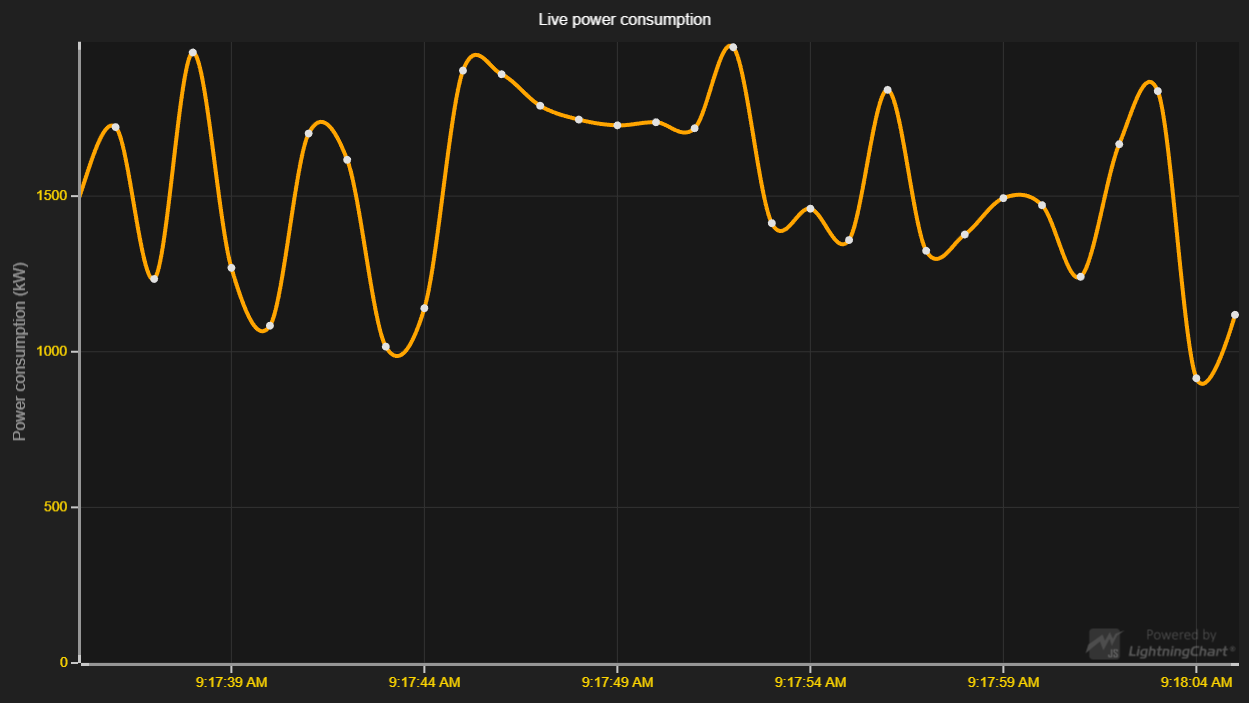
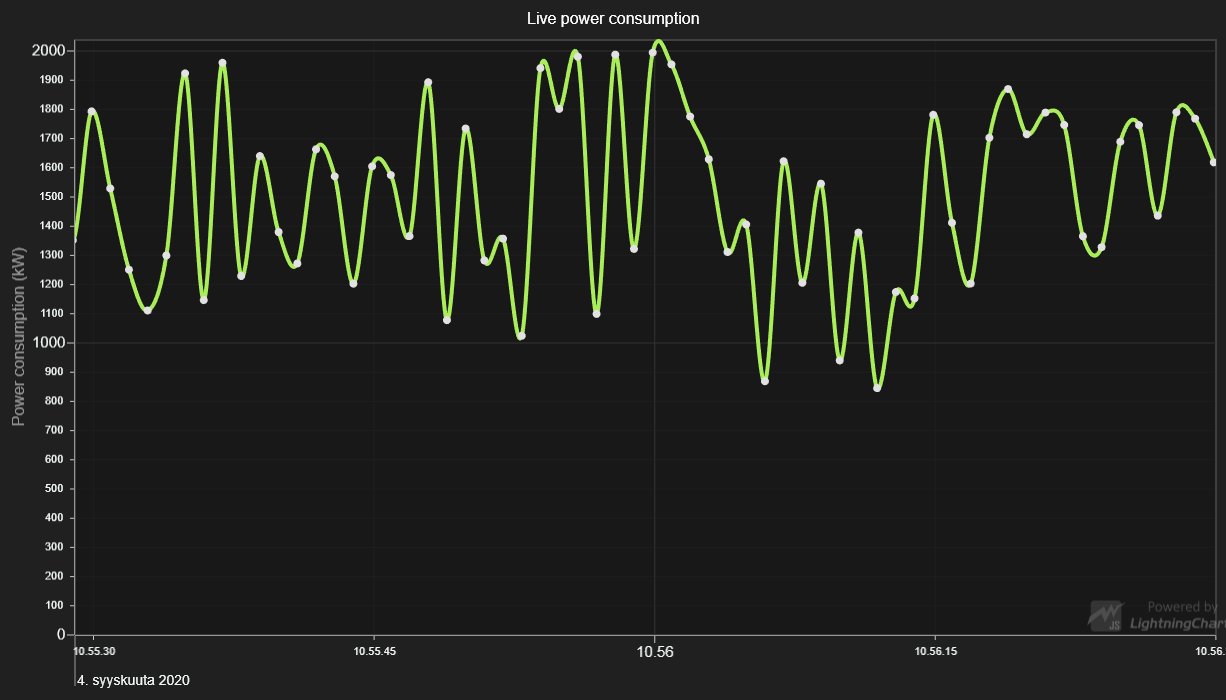
LCJS 2.0.0

Changed region(s): [[0.0, 0.0, 1.0, 0.99], [0.8059, 0.12, 0.9918, 0.54]]

diff --git a/src/index.js b/src/index.js
@@ -11,23 +11,29 @@ const {
     AxisScrollStrategies,
     PointShape,
     SolidFill,
-    ColorHEX
+    ColorHEX,
+    Themes
 } = lcjs
 
 const {
     createProgressiveRandomGenerator
 } = require('@arction/xydata')
-
+// Decide on an origin for DateTime axis.
 const dateOrigin = new Date()
 const dataFrequency = 1000
 const chart = lightningChart().ChartXY({
-    defaultAxisXTickStrategy: AxisTickStrategies.DateTime(dateOrigin)
+    // theme: Themes.dark
 })
-    .setTitle('Live power consumption')
 
-chart.getDefaultAxisX()
-    // Progressive DateTime view of 30 seconds.
-    .setInterval(-30 * 1000, 0)
+chart
+    .setTitle('Live power consumption')
+    // Modify the default X Axis to use DateTime TickStrategy, and set the origin for the DateTime Axis.
+    .getDefaultAxisX().setTickStrategy(
+        AxisTickStrategies.DateTime,
+        (tickStrategy) => tickStrategy.setDateOrigin(dateOrigin)
+    )
+    // Progressive DateTime view of 61 seconds.
+    .setInterval(-61 * 1000, 0)
     .setScrollStrategy(AxisScrollStrategies.progressive)
 
 chart.getDefaultAxisY()
@@ -39,7 +45,7 @@ const series = chart.addSplineSeries({ pointShape: PointShape.Circle })
     .setName('Power consumption')
     .setStrokeStyle((strokeStyle) => strokeStyle
         .setThickness(4)
-        .setFillStyle(new SolidFill({ color: ColorHEX('#FFA500') }))
+        .setFillStyle(new SolidFill({ color: ColorHEX('#A9ED59') }))
     )
     .setPointSize(8)
     .setCursorInterpolationEnabled(false)

diff --git a/README.md b/README.md
@@ -71,14 +71,14 @@ splineSeries
 
 ## API Links
 
-* Solid LineStyle: [SolidLine]
-* Solid FillStyle: [SolidFill]
-* Transparent FillStyle: [transparentFill]
-* RGBA color factory: [ColorRGBA]
-* XY cartesian chart: [ChartXY]
-* Spline series: [SplineSeries]
-* Scroll strategies: [AxisScrollStrategies]
-* Progressive random data generator: [ProgressiveRandomGenerator]
+* [Solid LineStyle]
+* [Solid FillStyle]
+* [Transparent FillStyle]
+* [RGBA color factory]
+* [XY cartesian chart]
+* [Spline series]
+* [Scroll strategies]
+* [Progressive random data generator]
 
 
 ## Support
@@ -102,12 +102,12 @@ Direct developer email support can be purchased through a [Support Plan][4] or b
 © Arction Ltd 2009-2020. All rights reserved.
 
 
-[SolidLine]: https://www.arction.com/lightningchart-js-api-documentation/v1.3.0/classes/solidline.html
-[SolidFill]: https://www.arction.com/lightningchart-js-api-documentation/v1.3.0/classes/solidfill.html
-[transparentFill]: https://www.arction.com/lightningchart-js-api-documentation/v1.3.0/globals.html#transparentfill
-[ColorRGBA]: https://www.arction.com/lightningchart-js-api-documentation/v1.3.0/globals.html#colorrgba
-[ChartXY]: https://www.arction.com/lightningchart-js-api-documentation/v1.3.0/classes/chartxy.html
-[SplineSeries]: https://www.arction.com/lightningchart-js-api-documentation/v1.3.0/classes/splineseries.html
-[AxisScrollStrategies]: https://www.arction.com/lightningchart-js-api-documentation/v1.3.0/globals.html#axisscrollstrategies
-[ProgressiveRandomGenerator]: https://arction.github.io/xydata/classes/progressiverandomgenerator.html
+[Solid LineStyle]: https://www.arction.com/lightningchart-js-api-documentation/v2.0.0/classes/solidline.html
+[Solid FillStyle]: https://www.arction.com/lightningchart-js-api-documentation/v2.0.0/classes/solidfill.html
+[Transparent FillStyle]: https://www.arction.com/lightningchart-js-api-documentation/v2.0.0/globals.html#transparentfill
+[RGBA color factory]: https://www.arction.com/lightningchart-js-api-documentation/v2.0.0/globals.html#colorrgba
+[XY cartesian chart]: https://www.arction.com/lightningchart-js-api-documentation/v2.0.0/classes/chartxy.html
+[Spline series]: https://www.arction.com/lightningchart-js-api-documentation/v2.0.0/classes/splineseries.html
+[Scroll strategies]: https://www.arction.com/lightningchart-js-api-documentation/v2.0.0/globals.html#axisscrollstrategies
+[Progressive random data generator]: https://arction.github.io/xydata/classes/progressiverandomgenerator.html
 
